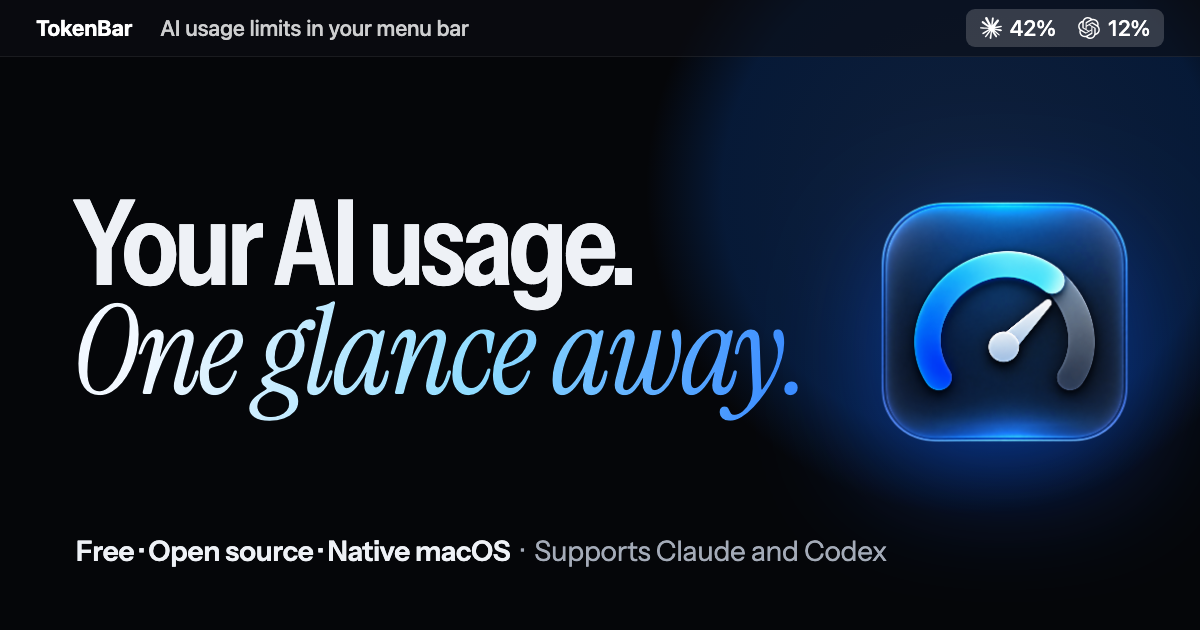
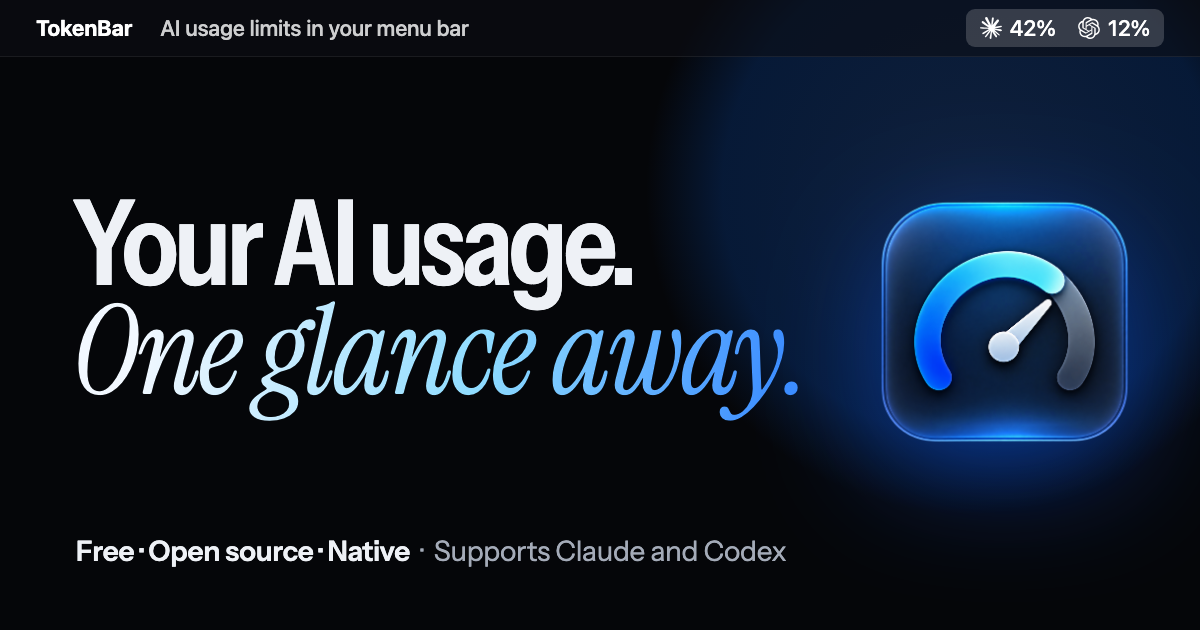
feat(web): platform-neutral title and Open Graph image
Title now reads "AI Usage Limits in Your Menu Bar | TokenBar". The
description and OG image no longer tie TokenBar to macOS, while still
saying macOS is available and Windows is planned.

Changed region(s): [[0.3392, 0.8444, 0.74, 0.9048]]

diff --git a/apps/web/src/config.ts b/apps/web/src/config.ts
@@ -21,9 +21,9 @@ export const links = {
 } as const;
 
 export const seo = {
-  title: "TokenBar — AI Usage Limits in Your macOS Menu Bar",
+  title: "AI Usage Limits in Your Menu Bar | TokenBar",
   description:
-    "Track your AI usage limits from the macOS menu bar. TokenBar is a free, native and open-source app that shows session and weekly limits and when they reset, with support for Claude and Codex.",
+    "Track your AI usage limits from your menu bar. TokenBar is a free, native and open-source app that shows session and weekly limits and when they reset. Supports Claude and Codex. Available for macOS, with Windows planned.",
 } as const;
 
 export const requirements = "macOS 14 Sonoma or later · Apple silicon or Intel";
